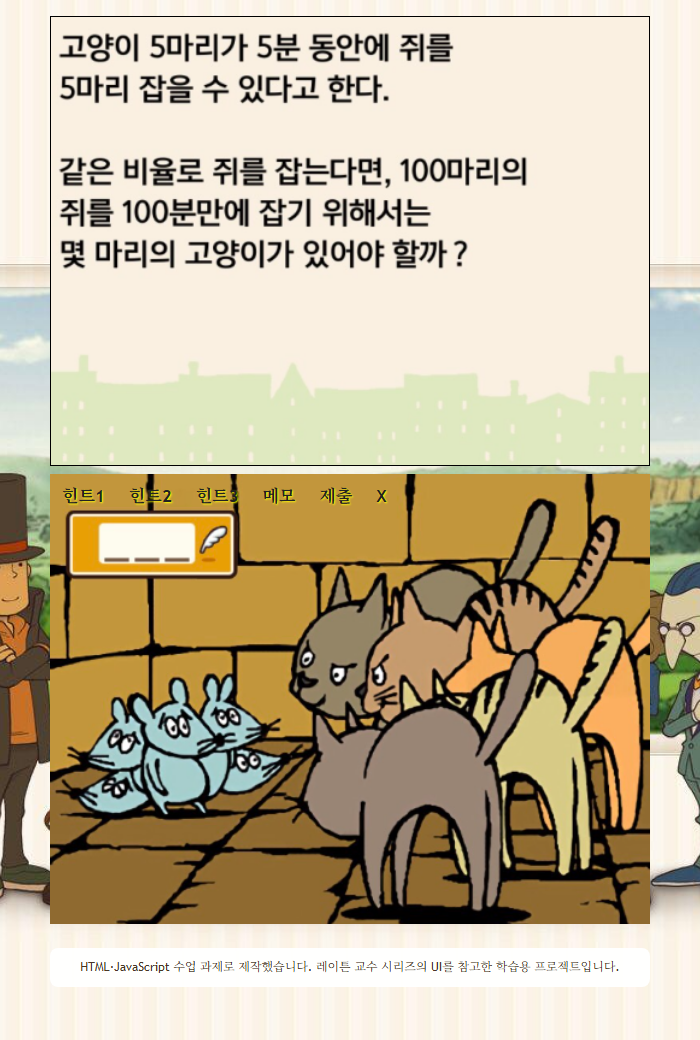
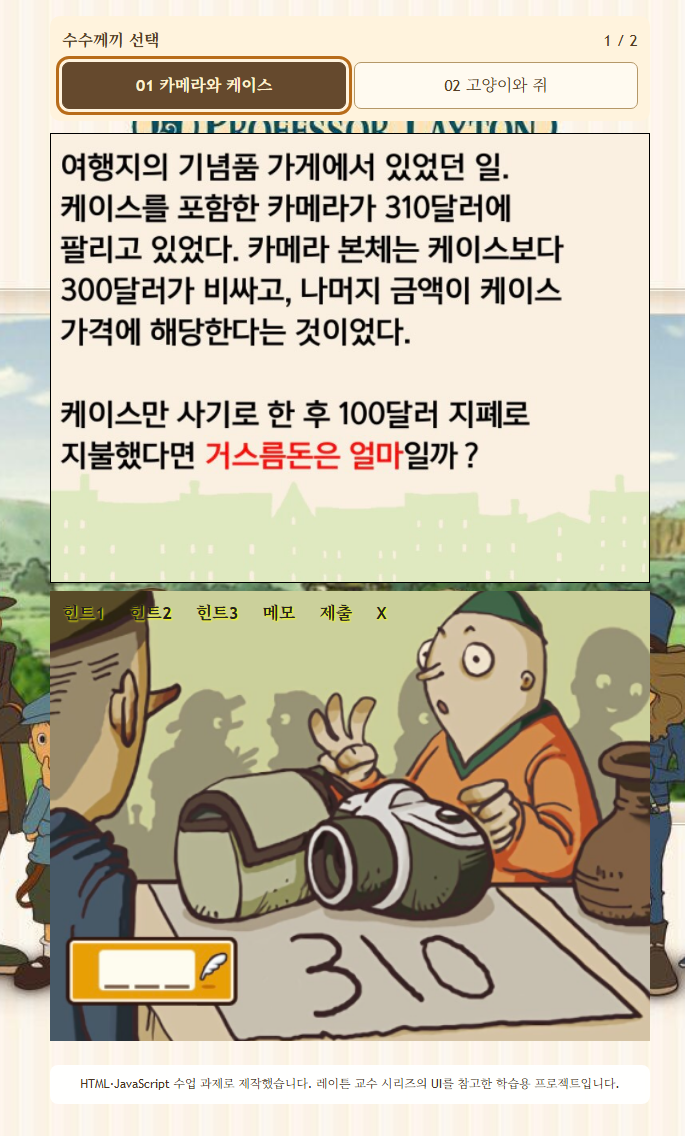
문제 선택 추가: 카메라와 고양이 수수께끼 모두 체험 지원

diff --git a/index.html b/index.html
@@ -160,12 +160,29 @@ ul.tabs li:focus-visible{outline:3px solid #835b2e;outline-offset:-3px}
 #input1{box-sizing:border-box;max-width:100%;min-width:0}
 .w-btn-outline:hover{letter-spacing:normal;transform:none}
 .demo-note{box-sizing:border-box;width:100%;max-width:600px;margin:16px 0 0;padding:10px 14px;border-radius:8px;background:#fffE;color:#483524;font-size:12px;text-align:center}
+.puzzle-nav{box-sizing:border-box;width:100%;max-width:600px;margin-bottom:12px;padding:12px;border-radius:10px;background:#fff3dd}
+.puzzle-nav header{display:flex;justify-content:space-between;align-items:center;margin-bottom:8px;color:#543d24}
+.puzzle-buttons{display:flex;gap:8px}
+.puzzle-buttons button{flex:1;padding:10px 8px;border:1px solid #b59868;border-radius:7px;background:#fffaf0;color:#543d24;font:inherit;cursor:pointer}
+.puzzle-buttons button[aria-pressed="true"]{background:#65492d;color:#fff1cf;border-color:#65492d;font-weight:bold}
+button:focus-visible{outline:3px solid #b86c1a;outline-offset:3px}
+#answer-result{box-sizing:border-box;width:100%;max-width:600px;padding:12px 16px;margin:8px 0;background:#fff3dd;border-radius:8px;color:#483524}
+#answer-result p{margin:0 0 8px}
+#next-puzzle{padding:8px 16px;border:0;border-radius:6px;background:#65492d;color:#fff1cf;cursor:pointer;font:inherit}
 @media(max-width:480px){.box{min-height:360px}ul.tabs li{font-size:15px;padding:8px 11px}.tab-content{padding:12px}.w-btn-outline{padding:11px 15px}#input1{width:100%}}
 /* 스타일 시트 (CSS) 끝 */
 
   </style>
   </head>
   <body>
+
+    <nav class="puzzle-nav" aria-label="문제 선택">
+      <header><strong>수수께끼 선택</strong><span id="puzzle-progress" aria-live="polite">1 / 2</span></header>
+      <div class="puzzle-buttons">
+        <button type="button" data-puzzle="0" aria-pressed="true">01 카메라와 케이스</button>
+        <button type="button" data-puzzle="1" aria-pressed="false">02 고양이와 쥐</button>
+      </div>
+    </nav>
 
     <canvas id="myCanvas" width="600" height="450" aria-label="문제 화면과 손그림 메모 영역">
 
@@ -224,35 +241,84 @@ ul.tabs li:focus-visible{outline:3px solid #835b2e;outline-offset:-3px}
       </div>
     </div>
 
+    <section id="answer-result" aria-live="polite" hidden>
+      <p id="answer-message"></p>
+      <button id="next-puzzle" type="button" hidden>다음 문제 →</button>
+    </section>
     <script src="./paint.js"></script>
-    <!-- jQuery를 사용하여 탭 메뉴의 동작을 구현하는 스크립트 -->
     <script>
+      const puzzles = [
+        {
+          title: '카메라와 케이스', question: './q1.png', illustration: './a1.png', answer: '95',
+          hints: [
+            ['카메라 본체와 케이스의 가격 차이가 300달러라는 점에 주목하세요.'],
+            ['케이스 가격을 x라고 하면 카메라는 x + 300달러입니다.', '둘을 합한 가격은 310달러입니다.'],
+            ['케이스 두 개 값에 300달러를 더하면 310달러입니다.', '케이스 가격을 구한 뒤 100달러에서 빼 보세요.']
+          ],
+          explanation: '케이스 가격을 x라고 하면 x + (x + 300) = 310이므로 케이스는 5달러입니다. 100달러를 냈으므로 거스름돈은 95달러입니다.'
+        },
+        {
+          title: '고양이와 쥐', question: './q2.png', illustration: './a2.png', answer: '5',
+          hints: [
+            ['고양이들의 사냥 속도는 모두 동일합니다.'],
+            ['고양이 5마리가 5분 동안 쥐 5마리를 잡습니다.', '고양이 한 마리는 5분 동안 몇 마리의 쥐를 잡을까요?'],
+            ['고양이 한 마리는 5분 동안 쥐 한 마리를 잡습니다.', '고양이 한 마리는 100분 동안 쥐 20마리를 잡을 수 있습니다.']
+          ],
+          explanation: '고양이 한 마리가 5분 동안 쥐 한 마리를 잡으므로, 100분 동안에는 20마리를 잡습니다. 따라서 고양이 5마리면 100분 동안 쥐 100마리를 잡을 수 있습니다.'
+        }
+      ];
+      let currentPuzzle = 0;
       const tabs = [...document.querySelectorAll('ul.tabs li')];
       const panels = [...document.querySelectorAll('.tab-content')];
+      function closeTabs() {
+        tabs.forEach(item=>{item.classList.remove('current');item.setAttribute('aria-expanded','false');});
+        panels.forEach(panel=>panel.classList.remove('current'));
+      }
       tabs.forEach(tab => {
         tab.classList.remove('current');tab.tabIndex=0;tab.setAttribute('role','button');tab.setAttribute('aria-expanded','false');
         tab.addEventListener('click', () => {
-          tabs.forEach(item=>{item.classList.remove('current');item.setAttribute('aria-expanded','false');});
-          panels.forEach(panel=>panel.classList.remove('current'));
+          closeTabs();
           if(tab.dataset.tab==='tab-6')return;
           tab.classList.add('current');tab.setAttribute('aria-expanded','true');document.getElementById(tab.dataset.tab).classList.add('current');
         });
         tab.addEventListener('keydown',event=>{if(event.key==='Enter'||event.key===' '){event.preventDefault();tab.click();}});
       });
-      panels.forEach(panel=>panel.classList.remove('current'));
-
-      document.getElementById("form").onsubmit = function() {
-        var sc = document.getElementById("input1");
-
-        if (sc.value.trim() == "5")
-        {
-          alert("정답입니다!\n 해설:\n고양이 한 마리가 5분 동안 쥐 한 마리를 잡으므로, 고양이 한 마리는 100분 동안 20마리를 잡을 수 있습니다.\n즉, 고양이 다섯 마리가 있으면 100분 동안 100 마리의 쥐를 잡을 수 있습니다.");
-          
-        } else {
-          alert("틀렸습니다!!!\n" + sc.value + " 는 답이 아닙니다. (숫자만 적어주세요.)")
-        }
-        return false;
+      function selectPuzzle(index) {
+        currentPuzzle = index;
+        const puzzle = puzzles[index];
+        canvas.style.backgroundImage = `url("${puzzle.question}")`;
+        canvas.setAttribute('aria-label', `${puzzle.title} 문제 화면과 손그림 메모 영역`);
+        document.getElementById('box2').style.backgroundImage = `url("${puzzle.illustration}")`;
+        document.getElementById('puzzle-progress').textContent = `${index + 1} / ${puzzles.length}`;
+        document.querySelectorAll('[data-puzzle]').forEach(button=>button.setAttribute('aria-pressed',String(Number(button.dataset.puzzle)===index)));
+        puzzle.hints.forEach((lines,hintIndex)=>{
+          const panel = document.getElementById(`tab-${hintIndex + 1}`);
+          panel.querySelectorAll('p').forEach(item=>item.remove());
+          lines.forEach(line=>{const p=document.createElement('p');p.textContent=line;panel.append(p);});
+        });
+        document.getElementById('form').reset();
+        document.getElementById('answer-result').hidden = true;
+        document.getElementById('answer-message').textContent = '';
+        document.getElementById('next-puzzle').hidden = true;
+        erase_all();closeTabs();
       }
+      document.querySelectorAll('[data-puzzle]').forEach(button=>button.addEventListener('click',()=>{
+        if(Number(button.dataset.puzzle)!==currentPuzzle)selectPuzzle(Number(button.dataset.puzzle));
+      }));
+      document.getElementById('next-puzzle').addEventListener('click',()=>{
+        selectPuzzle((currentPuzzle + 1) % puzzles.length);
+        document.querySelector(`[data-puzzle="${currentPuzzle}"]`).focus();
+      });
+      document.getElementById('form').onsubmit = function() {
+        const correct = document.getElementById('input1').value.trim() === puzzles[currentPuzzle].answer;
+        document.getElementById('answer-result').hidden = false;
+        document.getElementById('answer-message').textContent = correct
+          ? `정답입니다! ${puzzles[currentPuzzle].explanation}`
+          : '정답이 아닙니다. 힌트를 확인하고 숫자로 다시 입력해 보세요.';
+        document.getElementById('next-puzzle').hidden = !correct;
+        return false;
+      };
+      selectPuzzle(0);
     </script>
     <p class="demo-note">HTML·JavaScript 수업 과제로 제작했습니다. 레이튼 교수 시리즈의 UI를 참고한 학습용 프로젝트입니다.</p>
   </body>

diff --git a/README.md b/README.md
@@ -8,11 +8,13 @@
 
 ## 사용 방법
 
-1. 위 체험 버튼을 누르고 화면의 문제를 읽습니다.
+1. 위 체험 버튼을 누르고 **카메라와 케이스 / 고양이와 쥐** 중 풀 문제를 선택합니다. 기본 화면은 첫 번째 문제입니다.
 2. 도움이 필요하면 **힌트 1~3**을 선택합니다.
 3. 문제 화면을 마우스나 손가락으로 드래그해 메모합니다. **메모 → 모든 라인 지우기**로 지울 수 있습니다.
 4. **제출** 탭에 숫자로 정답을 입력하고 **정답 확인**을 누릅니다.
-5. **X**는 열린 탭을 닫습니다.
+5. 정답을 맞히면 **다음 문제**로 이동할 수 있습니다. **X**는 열린 탭을 닫습니다.
+
+문제를 전환하면 문제 그림·힌트·정답 해설이 함께 바뀌며, 이전 입력값과 그림 메모는 초기화됩니다.
 
 ## 구현
 
